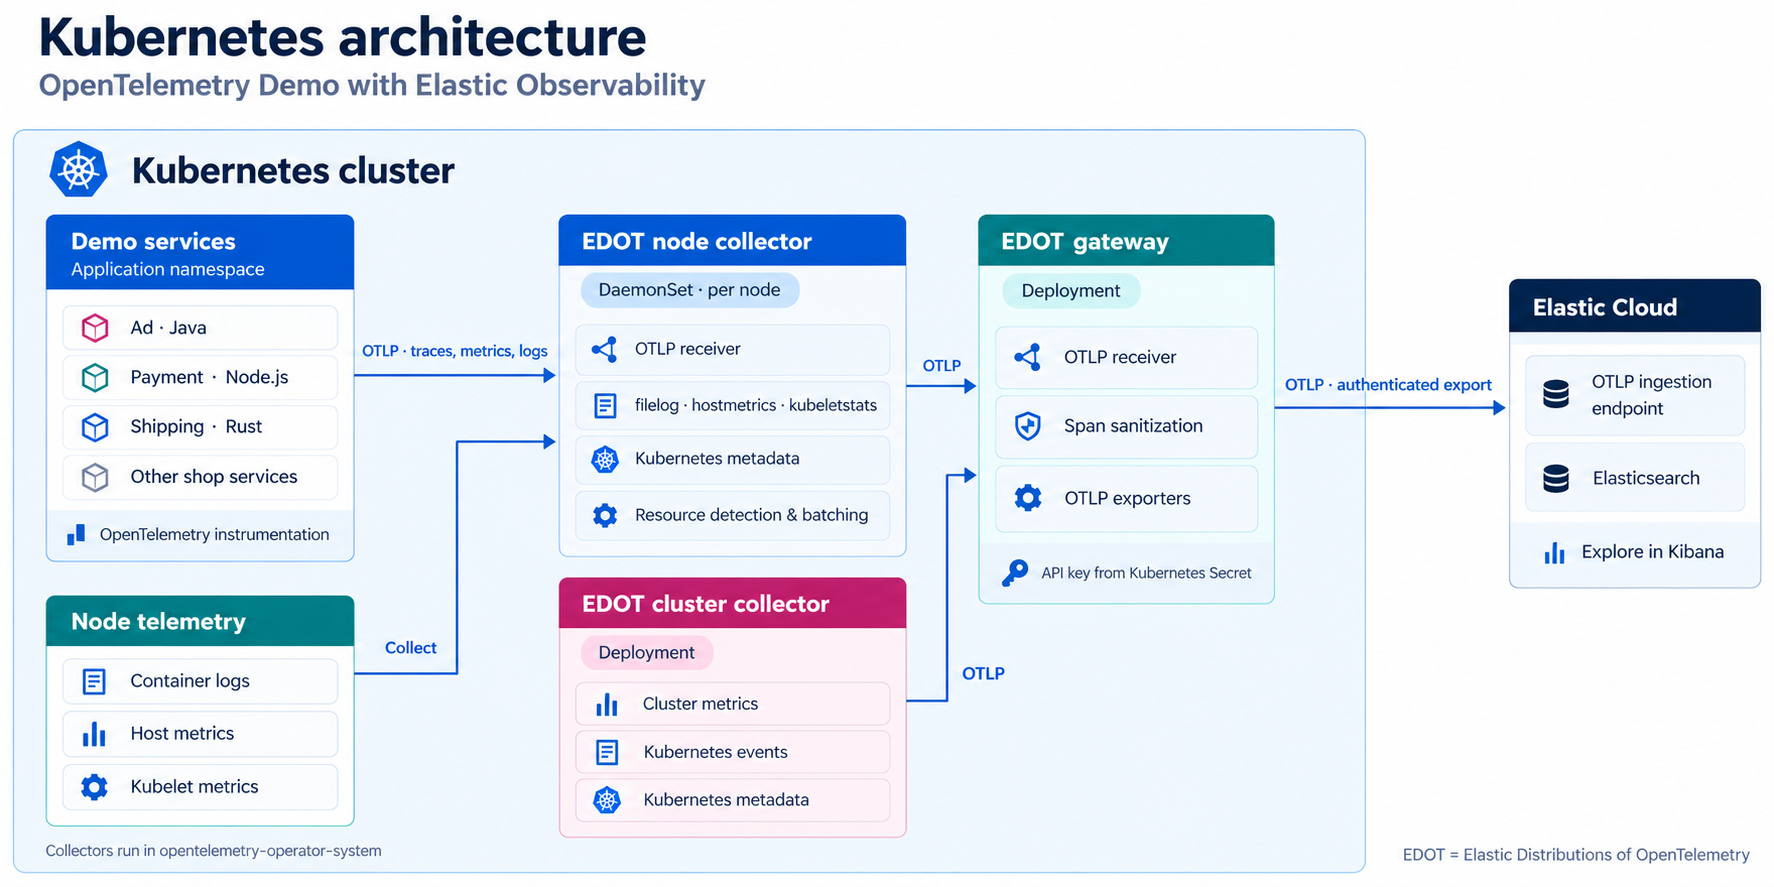
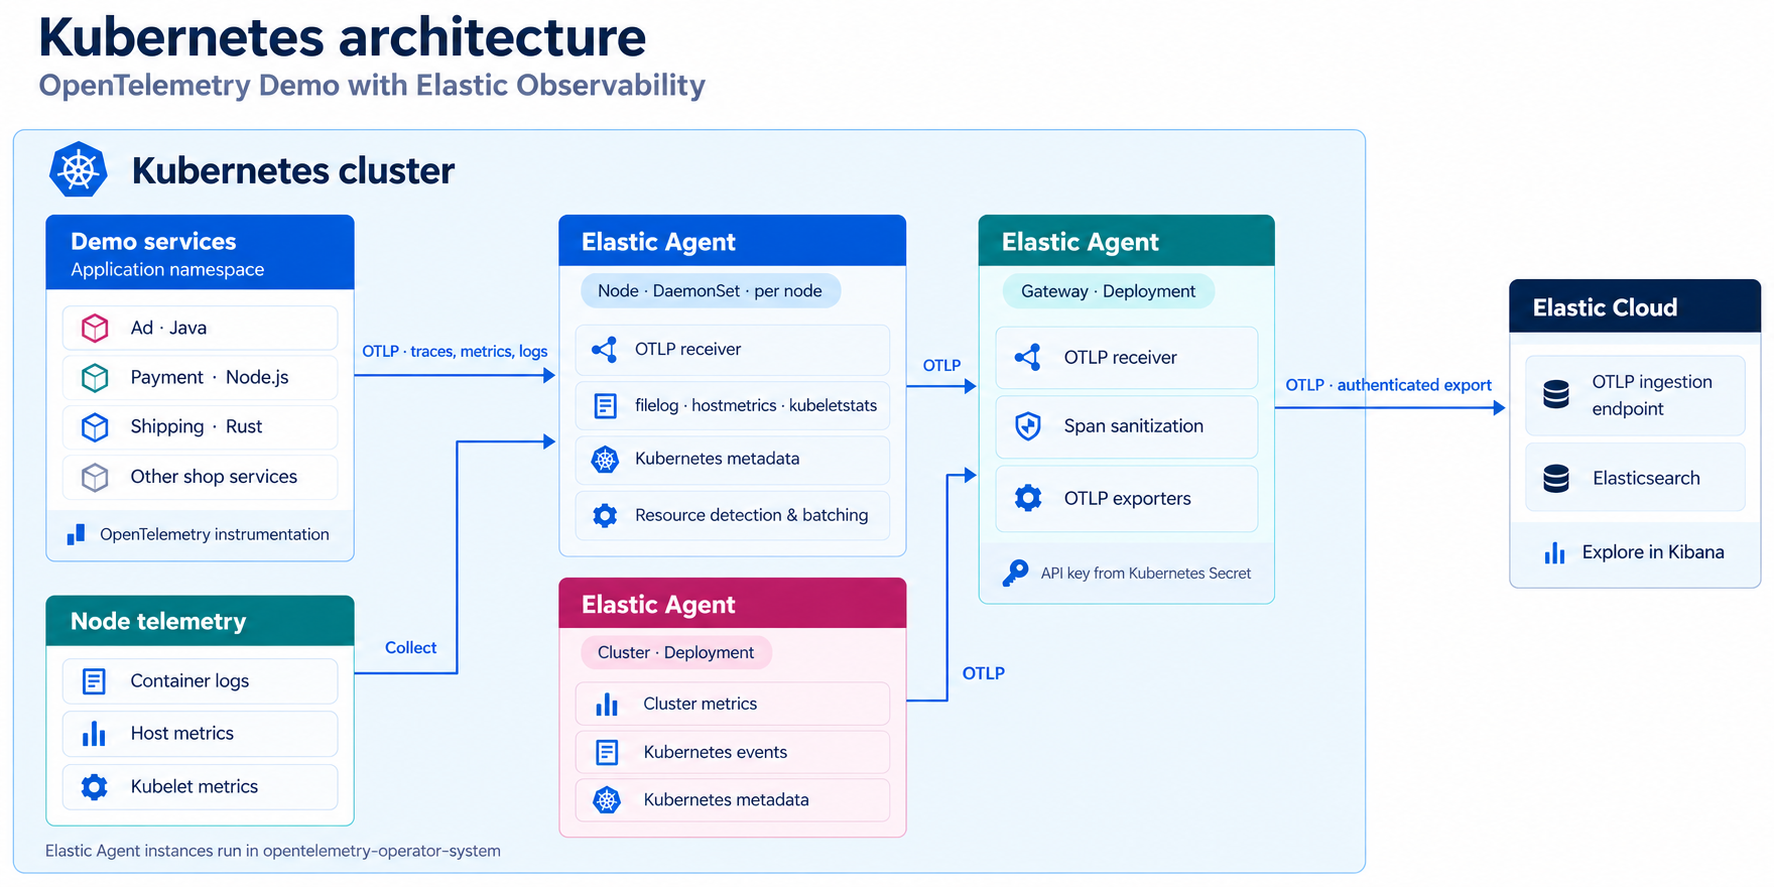
docs: use Elastic Agent terminology for collectors
Assisted-by: GPT-6

diff --git a/.github/README.md b/.github/README.md
@@ -5,17 +5,18 @@ Run the **Astronomy Shop**, a microservice demo that generates traffic
 automatically, and explore its traces, metrics, and logs in Elastic Observability.
 
 This fork uses **Elastic Distributions of OpenTelemetry (EDOT)** for selected
-language agents and the collector. You can also run it with upstream
-OpenTelemetry instrumentation while sending telemetry to Elastic.
+language agents and **Elastic Agent** for OpenTelemetry collection. You can also
+run it with upstream OpenTelemetry instrumentation while sending telemetry to
+Elastic.
 
 ## Choose your setup
 
 | Goal | Start command | Backend |
 | ------ | --------------- | --------- |
-| Docker with EDOT | `./demo.sh docker` | Elastic Cloud |
+| Docker with Elastic Agent | `./demo.sh docker` | Elastic Cloud |
 | Everything on your machine | `./demo.sh docker self-hosted` | Local Elastic Stack via start-local |
 | Docker with upstream OpenTelemetry | `./demo.sh docker upstream` | Elastic Cloud |
-| Kubernetes with EDOT | `./demo.sh k8s` | Elastic Cloud |
+| Kubernetes with Elastic Agent | `./demo.sh k8s` | Elastic Cloud |
 | Kubernetes with upstream OpenTelemetry | `./demo.sh k8s upstream` | Elastic Cloud |
 
 For your first run, follow [Docker](#docker). To run without a Cloud account,
@@ -62,7 +63,7 @@ is not a substitute for that endpoint.
 
 The startup script prompts for the endpoint and API key unless saved values
 already exist in `.env.override`. The API key is hidden while you type it.
-Docker EDOT and Kubernetes EDOT setup save these values in `.env.override`:
+Docker and Kubernetes Elastic Agent setups save these values in `.env.override`:
 
 ```dotenv
 ELASTIC_OTLP_ENDPOINT="<your-OTLP-endpoint>"
@@ -86,7 +87,7 @@ cluster.
 - Keep port `8080` available for the shop. start-local also uses ports
   `9200` and `5601`.
 
-### Docker with EDOT
+### Docker with Elastic Agent
 
 1. Prepare your [Elastic Cloud credentials](#elastic-cloud-credentials).
 2. Start the demo and enter the endpoint and API key when prompted:
@@ -105,10 +106,10 @@ To remove the demo later, use `./demo.sh destroy docker`. See
 
 ### Local Elastic Stack with start-local
 
-[start-local][start-local] runs Elasticsearch, Kibana, and an EDOT Collector on
-your machine for local testing.
+[start-local][start-local] runs Elasticsearch, Kibana, and Elastic Agent on your
+machine for local testing.
 
-1. Start the Elastic Stack with EDOT from the repository root:
+1. Start the Elastic Stack with OpenTelemetry collection enabled:
 
    ```sh
    curl -fsSL https://elastic.co/start-local | sh -s -- --edot
@@ -122,15 +123,14 @@ your machine for local testing.
    ./demo.sh docker self-hosted
    ```
 
-   This mode forwards telemetry through the start-local EDOT Collector and does
+   This mode forwards telemetry through the start-local Elastic Agent and does
    not prompt for Cloud credentials.
 3. Open the shop at <http://localhost:8080> and Kibana at
    <http://localhost:5601>. Continue with
    [Verify telemetry and explore](#verify-telemetry-and-explore).
 
 The telemetry path is:
-`demo services → demo EDOT Collector → start-local EDOT Collector →
-Elasticsearch`.
+`demo services → demo Elastic Agent → start-local Elastic Agent → Elasticsearch`.
 See [Clean up](#clean-up) to stop or remove both stacks.
 
 ### Docker with upstream OpenTelemetry
@@ -148,7 +148,7 @@ to Elastic over OTLP HTTP.
 
 Open <http://localhost:8080>, then
 [verify telemetry](#verify-telemetry-and-explore). Some Elastic dashboards may
-show less data than in EDOT mode. Remove the demo with
+show less data than with Elastic Agent. Remove the demo with
 `./demo.sh destroy docker` when finished.
 
 ## Kubernetes
@@ -169,17 +169,17 @@ kubectl get nodes
 helm version
 ```
 
-The demo is installed in your current Kubernetes namespace. The EDOT collector
+The demo is installed in your current Kubernetes namespace. The Elastic Agent
 stack is installed in `opentelemetry-operator-system`.
 
-### Kubernetes with EDOT
+### Kubernetes with Elastic Agent
 
 ```sh
 ./demo.sh k8s
 ```
 
-Enter the endpoint and API key when prompted. The script installs the EDOT
-collector stack and the demo using the chart versions pinned in
+Enter the endpoint and API key when prompted. The script installs the Elastic Agent
+stack and the demo using the chart versions pinned in
 [demo.sh](../demo.sh).
 
 ### Kubernetes with upstream OpenTelemetry
@@ -191,7 +191,7 @@ collector stack and the demo using the chart versions pinned in
 This installs the demo with upstream instrumentation and its bundled collector,
 configured to export telemetry to Elastic. The credential Secret is created in
 your current namespace. Some Elastic dashboards may show less data than in
-EDOT mode.
+Elastic Agent mode.
 
 ### Open the shop
 
@@ -215,12 +215,12 @@ See [Clean up](#clean-up) for removal instructions.
 
 ### Kubernetes architecture
 
-![EDOT collectors forwarding Kubernetes telemetry to Elastic Cloud](../kubernetes/elastic-helm/elastic-architecture-v2.png)
+![Elastic Agent instances forwarding Kubernetes telemetry to Elastic Cloud](../kubernetes/elastic-helm/elastic-architecture-v2.png)
 
-In EDOT mode, demo services send telemetry to the per-node collector, which also
-collects container logs and host and kubelet metrics. A separate collector gathers
+Demo services send telemetry to the per-node Elastic Agent, which also collects
+container logs and host and kubelet metrics. A separate Elastic Agent gathers
 cluster metrics and Kubernetes events. Both forward telemetry through the gateway
-to the Elastic Cloud OTLP endpoint.
+Elastic Agent to the Elastic Cloud OTLP endpoint.
 
 ## Verify telemetry and explore
 
@@ -247,7 +247,7 @@ can vary by Elastic deployment and version.
 | APM services | Latency, throughput, errors, and transaction traces |
 | Service map | Dependencies between the shop's services |
 | Logs / Discover | Service logs and correlation with trace IDs |
-| Hosts | CPU, memory, disk, and network metrics collected by EDOT |
+| Hosts | CPU, memory, disk, and network metrics collected by Elastic Agent |
 | Infrastructure | Available container, pod, and node telemetry |
 | Dashboards | `[System] OTel Host Metrics` and, for Kubernetes, `[Kubernetes] Cluster Overview`, when installed |
 
@@ -330,7 +330,7 @@ To uninstall the local Elastic Stack and permanently delete its data:
 
 ### Kubernetes demo
 
-For EDOT mode:
+For Elastic Agent mode:
 
 ```sh
 ./demo.sh destroy k8s
@@ -358,7 +358,8 @@ Prepare your [Elastic Cloud credentials](#elastic-cloud-credentials), then edit
 `.env.override` with your endpoint and API key. Keep the Elastic image,
 Dockerfile, and collector overrides provided by this fork.
 
-Start the demo with the same Compose layers used by the automated EDOT setup:
+Start the demo with the same Compose layers used by the automated Elastic Agent
+setup:
 
 ```sh
 docker compose --env-file .env --env-file .env.override \
@@ -369,8 +370,8 @@ docker compose --env-file .env --env-file .env.override \
 
 ### Manual Kubernetes configuration
 
-Follow the [EDOT Kubernetes quickstart][edot-quickstarts] for your Elastic
-deployment type. The demo's
+Follow the [Elastic OpenTelemetry Kubernetes quickstart][edot-quickstarts] for
+your Elastic deployment type. The demo's
 [Helm values](../kubernetes/elastic-helm/demo.yml) expect the collector at
 `opentelemetry-kube-stack-daemon-collector.opentelemetry-operator-system.svc.cluster.local`.
 If your collector uses a different name or namespace, update
@@ -388,7 +389,8 @@ helm upgrade --install my-otel-demo open-telemetry/opentelemetry-demo \
 
 ### Enable Kubernetes browser traffic
 
-Browser traffic generation is disabled in the EDOT demo values. To enable it:
+Browser traffic generation is disabled in the Elastic Agent demo values.
+To enable it:
 
 1. Set `LOCUST_BROWSER_TRAFFIC_ENABLED` to `"true"` in
    [demo.yml](../kubernetes/elastic-helm/demo.yml).
@@ -417,7 +419,7 @@ component in the collector configuration and include it in the relevant
 
 For Docker, set `COLLECTOR_CONTRIB_IMAGE` and `OTEL_COLLECTOR_CONFIG` in
 `.env.override`, then use [manual Docker setup](#manual-docker-configuration).
-The automated Cloud EDOT command resets those two values.
+The automated Cloud Elastic Agent command resets those two values.
 
 For Kubernetes, customize the collector image and configuration in
 [kube-stack-overrides.yml](../kubernetes/elastic-helm/kube-stack-overrides.yml)
@@ -434,7 +436,7 @@ configure an OpenAI-compatible LLM.
 
 ## How this fork differs
 
-The EDOT modes replace selected upstream agents and the collector:
+Elastic Agent setups also replace selected upstream language agents with EDOT:
 
 | Language | Services | Implementation |
 | ---------- | ---------- | ---------------- |
@@ -446,8 +448,8 @@ The EDOT modes replace selected upstream agents and the collector:
 
 See the services' `Dockerfile.elastic` files and
 [docker-compose.elastic.yml](../docker-compose.elastic.yml) for configuration.
-The collector uses the [Elastic OpenTelemetry Collector
-distribution][edot-collector].
+[Elastic Agent][elastic-agent] includes the OpenTelemetry Collector used by
+this fork.
 Upstream modes use upstream instrumentation and the Collector Contrib
 distribution instead.
 
@@ -459,5 +461,5 @@ To contribute, read [CONTRIBUTING.md](../CONTRIBUTING.md).
 [kubernetes-docs]: https://opentelemetry.io/docs/demo/kubernetes-deployment/
 [start-local]: https://github.com/elastic/start-local
 [edot-quickstarts]: https://www.elastic.co/docs/solutions/observability/get-started/opentelemetry/quickstart
-[edot-collector]: https://www.elastic.co/docs/reference/opentelemetry/edot-collector
+[elastic-agent]: https://www.elastic.co/docs/reference/edot-collector
 [collector-components]: https://github.com/elastic/opentelemetry-collector-components
